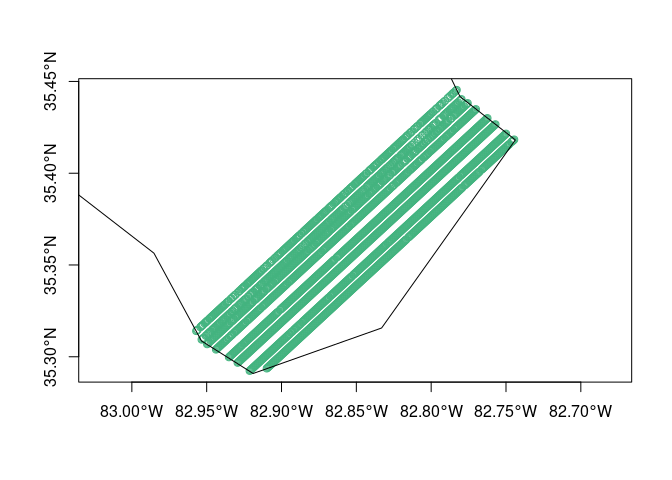
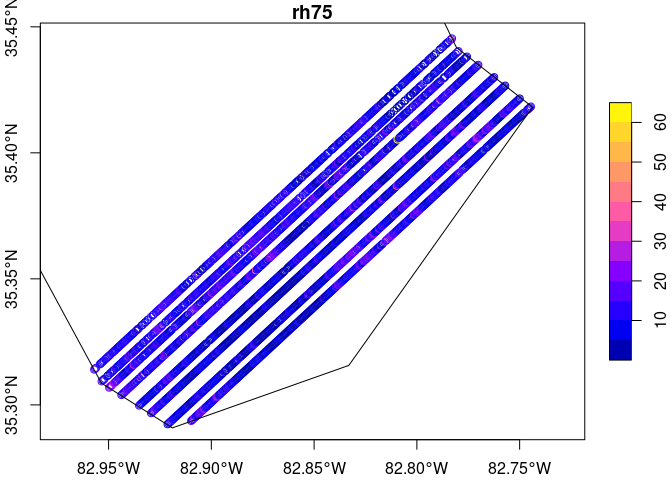
rm updates

diff --git a/README.md b/README.md
@@ -148,16 +148,14 @@ Or alternatively plot a leaflet map with `chewie_show`, which can be
 static or interactive.
 
 ``` r
-swath_map <- chewie_show(
+chewie_show(
   gedi_2a_search,
   time_group = "month",
-  zoom = 8,
-  interactive = FALSE,
-  file = "swath_map.png"
+  zoom = 8
 )
 ```
 
-![](swath_map.png)
+<img src="man/figures/README-show-find-data-1.png" width="100%" />
 
 Now we use `grab_gedi` to download the data - this function internally,
 converts the data to parquet format and stores it in the cache. The data
@@ -202,8 +200,8 @@ print(gedi_2a_sf)
 #> #   rh0 <dbl>, rh25 <dbl>, rh50 <dbl>, rh75 <dbl>, rh100 <dbl>,
 #> #   geometry <POINT [°]>
 
-plot(gedi_2a_sf[0], axes = TRUE, col = "#43b37f")
-plot(sf::st_transform(hw[0], sf::st_crs(gedi_2a_sf)), add = TRUE)
+plot(gedi_2a_sf["rh75"], axes = TRUE, reset = FALSE)
+plot(sf::st_transform(hw[0], sf::st_crs(gedi_2a_sf)), add = TRUE, reset = FALSE)
 ```
 
 <img src="man/figures/README-collect-data-1.png" width="100%" />
